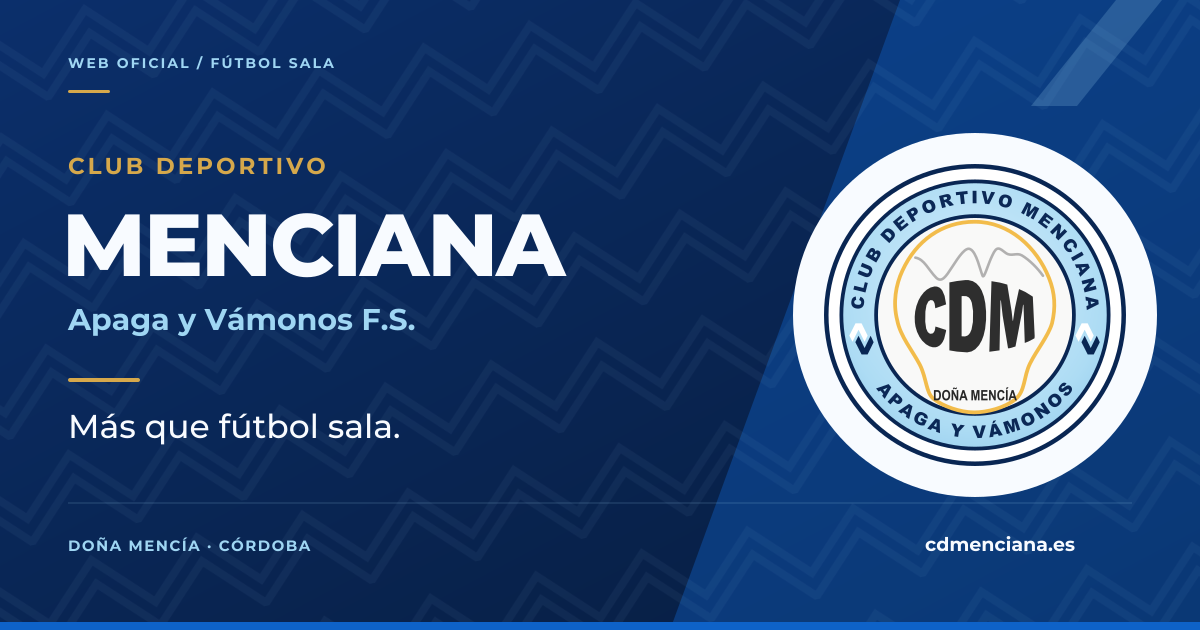
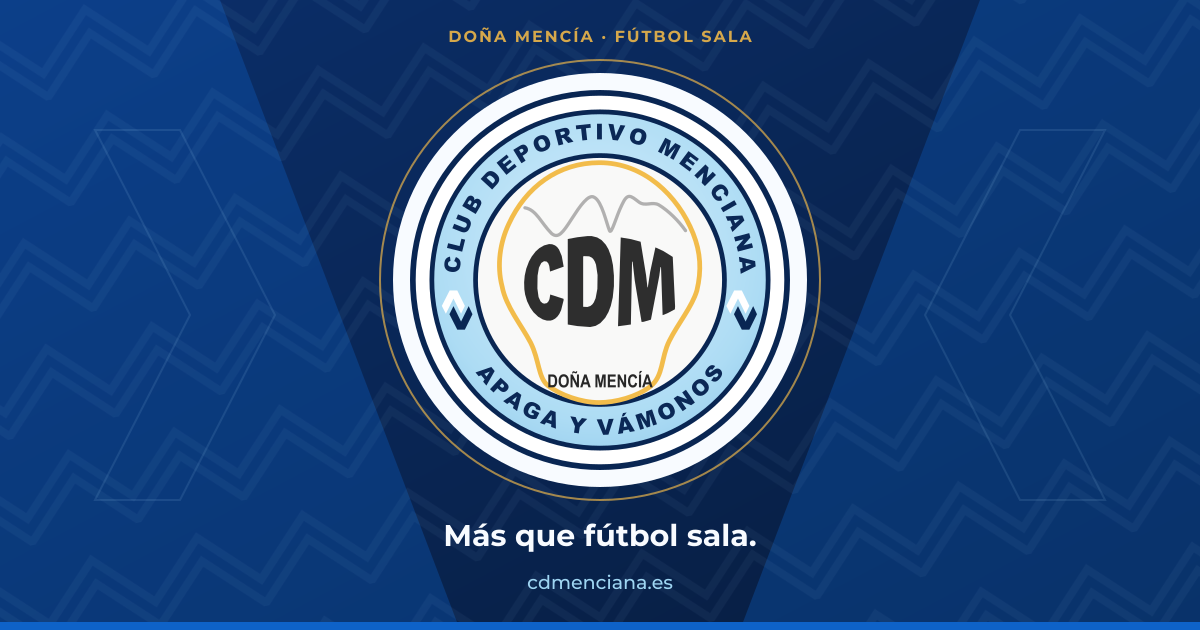
Center club crest in Open Graph artwork for compact link previews

diff --git a/scripts/generate-og.py b/scripts/generate-og.py
@@ -20,7 +20,7 @@ from fontTools.pens.svgPathPen import SVGPathPen
 FONT_DIR = ROOT / 'node_modules' / '@fontsource' / 'montserrat' / 'files'
 fonts = {weight: TTFont(FONT_DIR / f'montserrat-latin-{weight}-normal.woff') for weight in (500, 700, 800)}
 
-def label(text, x, baseline, size, color, weight=700, tracking=0):
+def label(text, x, baseline, size, color, weight=700, tracking=0, centered=False):
     font = fonts[weight]
     glyphs = font.getGlyphSet()
     cmap = font.getBestCmap()
@@ -35,10 +35,14 @@ def label(text, x, baseline, size, color, weight=700, tracking=0):
         if commands:
             paths.append(f'<path transform="translate({cursor:.3f} 0)" d="{commands}"/>')
         cursor += glyphs[name].width + tracking / scale
+    if centered:
+        x -= (cursor * scale - tracking) / 2
     return f'<g role="img" aria-label="{escape(text)}" fill="{color}" transform="translate({x} {baseline}) scale({scale:.6f} {-scale:.6f})">' + ''.join(paths) + '</g>'
 
 crest = (ROOT / 'public' / 'images' / 'escudo-oficial.svg').read_text(encoding='utf-8')
-crest = crest.replace('viewBox="0 0 400 400"', 'x="824" y="164" width="302" height="302" viewBox="0 0 400 400"', 1)
+# Keep all essential artwork in the central 630 x 630 square. Compact link
+# previews may crop a landscape OG image to a square around its center.
+crest = crest.replace('viewBox="0 0 400 400"', 'x="410" y="90" width="380" height="380" viewBox="0 0 400 400"', 1)
 
 svg = '''<svg xmlns="http://www.w3.org/2000/svg" xmlns:xlink="http://www.w3.org/1999/xlink" width="1200" height="630" viewBox="0 0 1200 630" role="img" aria-labelledby="og-title og-description">
 <title id="og-title">Club Deportivo Menciana · Apaga y Vámonos F.S.</title>
@@ -48,22 +52,16 @@ svg = '''<svg xmlns="http://www.w3.org/2000/svg" xmlns:xlink="http://www.w3.org/
   <pattern id="og-pattern" width="108" height="108" patternUnits="userSpaceOnUse" patternTransform="rotate(-12)"><path d="M-27 27 27 81 81 27 135 81 M-27 51 27 105 81 51 135 105" fill="none" stroke="#9FD6F3" stroke-opacity=".055" stroke-width="8"/></pattern>
 </defs>
 <rect width="1200" height="630" fill="url(#og-background)"/>
-<path d="M900 0H1200V630H670Z" fill="#0E62C8" opacity=".4"/>
+<path d="M0 0H220L460 630H0Z M1200 0H980L740 630H1200Z" fill="#0E62C8" opacity=".32"/>
 <rect width="1200" height="630" fill="url(#og-pattern)"/>
-<path d="M1116 0H1162L1077 106H1031Z" fill="#9FD6F3" opacity=".2"/>
-<rect x="68" y="90" width="42" height="3" rx="1.5" fill="#D6A84B"/>
-<circle cx="975" cy="315" r="182" fill="#F8FBFF"/>
+<path d="M95 130H180L275 315L180 500H95L190 315Z M1105 130H1020L925 315L1020 500H1105L1010 315Z" fill="none" stroke="#9FD6F3" stroke-opacity=".12" stroke-width="2"/>
+<circle cx="600" cy="280" r="207" fill="#F8FBFF"/>
+<circle cx="600" cy="280" r="220" fill="none" stroke="#D6A84B" stroke-opacity=".75" stroke-width="2"/>
 '''
 svg += crest
-svg += label('WEB OFICIAL / FÚTBOL SALA', 68, 68, 14, '#9FD6F3', tracking=2.1)
-svg += label('CLUB DEPORTIVO', 68, 174, 23, '#D6A84B', tracking=3)
-svg += label('MENCIANA', 62, 276, 88, '#F8FBFF', weight=800, tracking=-2)
-svg += label('Apaga y Vámonos F.S.', 68, 330, 30, '#9FD6F3', weight=700)
-svg += '<rect x="68" y="378" width="72" height="4" rx="2" fill="#D6A84B"/>'
-svg += label('Más que fútbol sala.', 68, 438, 33, '#F8FBFF', weight=500)
-svg += '<path d="M68 503H1132" stroke="#9FD6F3" stroke-opacity=".22"/>'
-svg += label('DOÑA MENCÍA · CÓRDOBA', 68, 551, 15, '#9FD6F3', tracking=1.5)
-svg += label('cdmenciana.es', 925, 551, 19, '#F8FBFF', weight=700)
+svg += label('DOÑA MENCÍA · FÚTBOL SALA', 600, 42, 16, '#D6A84B', tracking=2, centered=True)
+svg += label('Más que fútbol sala.', 600, 546, 30, '#F8FBFF', weight=700, centered=True)
+svg += label('cdmenciana.es', 600, 589, 19, '#9FD6F3', weight=500, centered=True)
 svg += '<rect y="622" width="1200" height="8" fill="#0E62C8"/></svg>'
 (ROOT / 'public' / 'og.svg').write_text(svg, encoding='utf-8')
 # Render the actual SVG, so the raster asset cannot drift from its vector source.
@@ -71,4 +69,5 @@ subprocess.run(['node', '--input-type=module', '-e', "import sharp from 'sharp';
 with Image.open(ROOT / 'public' / 'og.png') as image:
     assert image.size == (1200, 630)
     image.convert('RGB').resize((600, 315)).save(ROOT / 'tmp' / 'brand-review' / 'og-small.png')
+    image.convert('RGB').crop((285, 0, 915, 630)).resize((160, 160)).save(ROOT / 'tmp' / 'brand-review' / 'og-square-preview.png')
 print('Generated public/og.svg and public/og.png (1200 x 630).')
